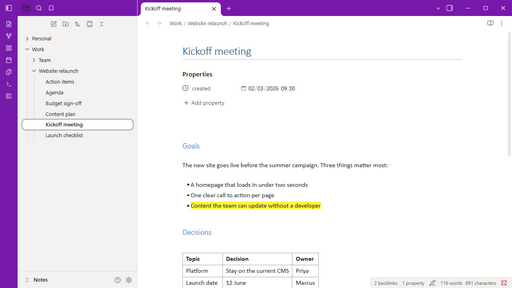
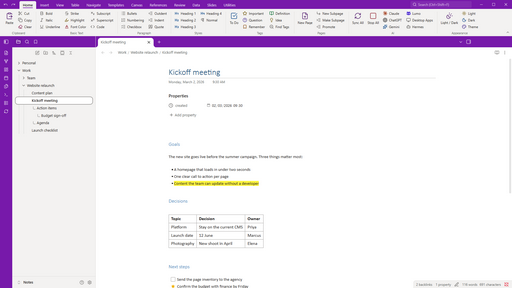
Screenshots: three with the OneNote Style ribbon, two with the theme alone

diff --git a/toDo.md b/toDo.md
@@ -2,20 +2,20 @@
 
 ## Before submitting to the community theme store
 
-- [x] **Screenshot.** `screenshot.png` (512 × 288) is in the repo root, taken from a demo vault with sample notes (2026-11-13). Larger pictures for the README are in `docs/`.
+- [x] **Screenshot.** `screenshot.png` (512 × 288) is in the repo root, taken from a demo vault with sample notes (2026-11-13). It shows the theme with the OneNote Style plugin's ribbon. The README has five pictures from `docs/`: three with the ribbon, two with the theme alone.
 - [ ] **Check the theme in Obsidian.** Look at it in light and dark mode:
   - The title row, left icon strip and the Minimise / Maximise / Close buttons are one colour.
   - The open tab reads as part of the page, with its close button visible.
   - The sidebar tab icons and the active file in the file list.
   - Headings, highlights, tables, quotes and to-do boxes.
 - [ ] **Check the Style Settings options:** slate and neutral title row, grey side panes, plain headings, and Obsidian's fonts.
-- [x] **Check alongside the OneNote Style plugin.** With plugin 2.0.0 the ribbon's tab row, the title row and the window buttons are one colour in light mode (checked 2026-11-13, see `docs/with-plugin.png`). The slate and neutral options were not rechecked.
+- [x] **Check alongside the OneNote Style plugin.** With plugin 2.0.0 the ribbon's tab row, the title row and the window buttons are one colour in light mode (checked 2026-11-13, see `docs/1-ribbon-light.png`). The slate and neutral options were not rechecked.
 - [ ] **Submit.** Sign in at [community.obsidian.md](https://community.obsidian.md), choose **Add your theme** and enter `Sundowna/obsidian-onenote-theme`.
 
 ## Later
 
 - [ ] **Automatic releases.** Bring back the GitHub Actions workflow that releases on a tag push. Pushing it needs a GitHub sign-in with the `workflow` scope: `gh auth refresh -s workflow`.
-- [x] **Dark mode screenshot.** `docs/dark.png` is in the README.
+- [x] **Dark mode screenshot.** `docs/2-ribbon-dark.png` and `docs/5-theme-dark.png` are in the README.
 - [ ] **More Style Settings options** if people ask: page colour, ruled lines, accent colour presets.
 - [ ] **Smaller screens.** Check the theme on a narrow window and on Obsidian mobile.
 

diff --git a/README.md b/README.md
@@ -4,9 +4,19 @@
 
 **Part of the [Sundowna Second Brain Suite](#part-of-the-sundowna-second-brain-suite)** - an easy, low-friction second brain in Obsidian, in the spirit of [Karpathy's LLM wiki](https://gist.github.com/karpathy/442a6bf555914893e9891c11519de94f). The other pieces: [AI ChatBridge](https://github.com/Sundowna/obsidian-ai-chatbridge) (all your AI chats in your vault) and [OneNote Style](https://github.com/Sundowna/obsidian-onenote-style) (the ribbon you already know).
 
-![OneNote Style in light mode](docs/light.png)
+**With the [OneNote Style](https://github.com/Sundowna/obsidian-onenote-style) plugin's ribbon.** The theme colours the ribbon's tab row like the title row.
 
-![OneNote Style in dark mode](docs/dark.png)
+![Light mode with the OneNote Style ribbon](docs/1-ribbon-light.png)
+
+![Dark mode with the OneNote Style ribbon](docs/2-ribbon-dark.png)
+
+![Light mode with the ribbon's Insert tab](docs/3-ribbon-insert-light.png)
+
+**The theme on its own.**
+
+![The theme alone in light mode](docs/4-theme-light.png)
+
+![The theme alone in dark mode](docs/5-theme-dark.png)
 
 ## What it looks like
 
@@ -45,10 +55,6 @@ This is one of three pieces of the **Sundowna Second Brain Suite (SSBS)**. Toget
 | **OneNote Style theme** (you are here) | Theme | OneNote's look: white pages, Calibri, OneNote's heading styles, light and dark |
 
 Each works on its own. Together they are low friction from the first minute.
-
-With the OneNote Style plugin, the theme colours the ribbon's tab row like the title row:
-
-![The theme together with the OneNote Style plugin](docs/with-plugin.png)
 
 ## Fonts
 
